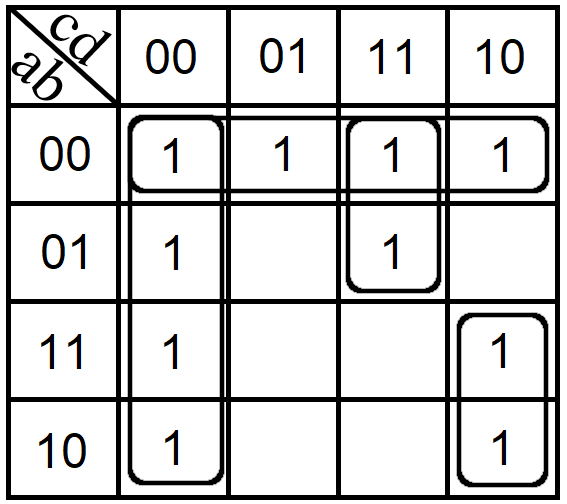
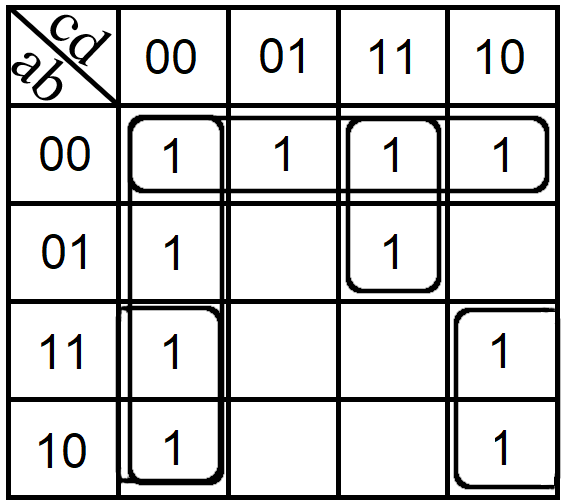
Fix mdnf map

Changed region(s): [[0.7795, 0.5952, 0.9894, 0.9821], [0.2099, 0.5952, 0.3898, 0.9821]]

diff --git a/informatics/practices/pr06/main.tex b/informatics/practices/pr06/main.tex
@@ -224,7 +224,7 @@
 \begin{align}
 	\label{equ:mdnf}
 	F_\textup{МДНФ} = \bar{a} \cdot \bar{b} + \bar{c} \cdot \bar{d} + %
-					  \bar{a} \cdot c \cdot d + a \cdot c \cdot \bar{d}
+					  \bar{a} \cdot c \cdot d + a \cdot \bar{d}
 \end{align}
 
 Теперь приведем полученную МДНФ к базисам «И-НЕ» и «ИЛИ-НЕ», для чего воспользуемся законами де Моргана. В результате получим формулы \cref{equ:mdnf-and-not,equ:mdnf-or-not}.
@@ -234,7 +234,7 @@
 		\overline{\overline{a} \cdot \overline{b}} \cdot %
 		\overline{\overline{c} \cdot \overline{d}} \cdot %
 		\overline{\overline{a} \cdot c \cdot d} \cdot %
-		\overline{a \cdot c \cdot \overline{d}}%
+		\overline{a \cdot \overline{d}}%
 	}
 \end{align}
 \begin{align}
@@ -242,7 +242,7 @@
 	F_{\textup{МДНФ}_\textup{или-не}} = \overline{\overline{%
 		\overline{a + b} + \overline{c + d} + %
 		\overline{a + \overline{c} + \overline{d}} + %
-		\overline{\overline{a} + \overline{c} + d}
+		\overline{\overline{a} + d}
 	}}
 \end{align}
 
